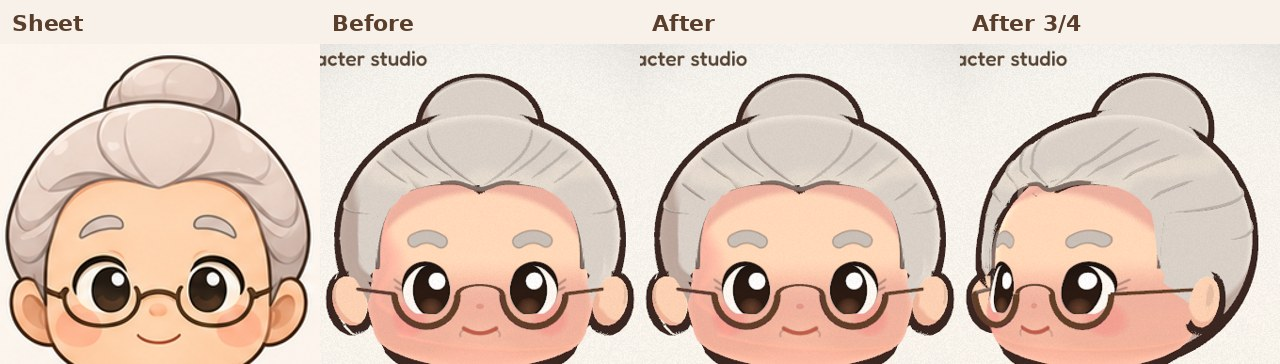
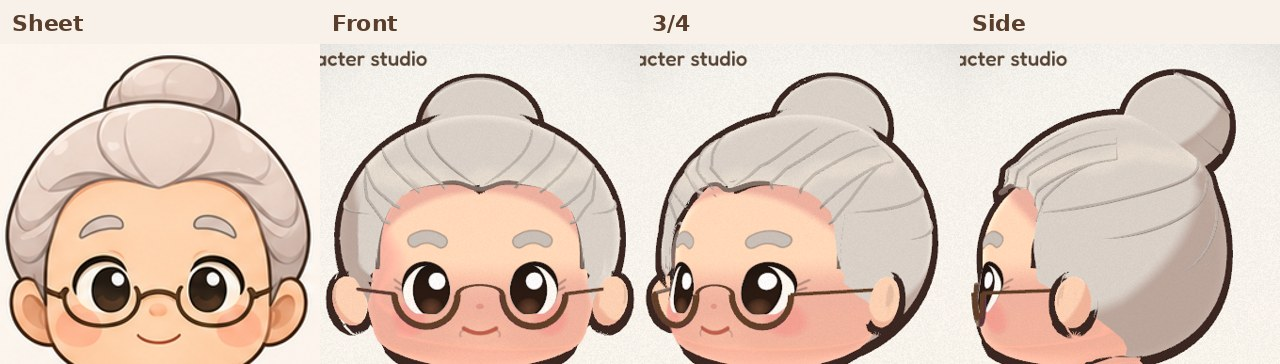
chibi-cast: Fuku front lock lines spaced out down to the ears
Claude-Session: https://claude.ai/code/session_01CNaBwH1Lc1JcuyURjoZdeq

diff --git a/src/art/chibi/ChibiFuku.jsx b/src/art/chibi/ChibiFuku.jsx
@@ -184,11 +184,24 @@ function hairLinesGeo() {
   // curves up the same way (a little larger each time)
   const hlY = (x) => { const top = HL.top - HL.dip * Math.exp(-((x / HL.dipW) ** 2)), cy = (top + HL.bot) / 2, hb = (top - HL.bot) / 2
     return cy + hb * Math.max(0, 1 - Math.abs(x / HL.a) ** HL.p) ** (1 / HL.p) }
-  const NEST = [[0.0175, 1.10], [0.0335, 1.20], [0.0475, 1.30]]
-  const nested = NEST.map(([x0, k]) => PART.map(([x, y]) => [x0 + (x - PART[0][0]) * k, hlY(x0) + 0.0012 + (y - PART[0][1]) * k]))
+  // starting points spaced evenly along the hairline, from the parting down to just above the top of the ear
+  const hl = []; for (let i = 0; i <= 400; i++) { const t = i / 400, x = 0.0532 * Math.sin(t * Math.PI / 2) ** (2 / HL.p) , y = Math.min(hlY(x), 0.0365 + 0.04 * (1 - t))
+    hl.push([x, Math.max(y, -0.004)]) }
+  const len = [0]; for (let i = 1; i < hl.length; i++) len.push(len[i - 1] + Math.hypot(hl[i][0] - hl[i - 1][0], hl[i][1] - hl[i - 1][1]))
+  const atArc = (f) => { const L = f * len[len.length - 1]; let i = len.findIndex(v => v >= L); return hl[Math.max(0, i)] }
+  // [fraction along the hairline, width scale, height scale]: outer lines rise more steeply so they stay on the head
+  const NEST = [[0.25, 1.10, 1.15], [0.50, 1.00, 1.30], [0.75, 0.80, 1.45], [1.00, 0.55, 1.60]]
+  const nested = NEST.map(([f, kx, ky]) => { const [x0, y0] = atArc(f); return PART.map(([x, y]) => [x0 + (x - PART[0][0]) * kx, y0 + 0.0012 + (y - PART[0][1]) * ky]) })
+  // lay a front-view point onto the cap radially (through a sphere round the cap centre), so lines near the sides
+  // wrap round the head instead of falling off its edge
+  const radial = (x, y) => { const dy = y - cc.y, R = 0.08, zz = Math.sqrt(Math.max(R * R - x * x - dy * dy, 1e-6))
+    dir.set(x, dy, zz).normalize(); ray.set(cc.clone().addScaledVector(dir, 0.2), dir.clone().negate()); const h = ray.intersectObject(cap)[0]
+    return h && h.point.distanceTo(cc) > 0.045 ? h.point.addScaledVector(dir, 0.0002) : null }
+  const alongR = (ctrl, d, n = 40) => { const c = new THREE.CatmullRomCurve3(ctrl.map(([x, y]) => new THREE.Vector3(d * x, y, 0)), false, 'centripetal'), pts = []
+    for (let i = 0; i <= n; i++) { const q = c.getPoint(i / n), p = radial(q.x, q.y); if (p) pts.push(p) } return pts }
   for (const d of [-1, 1]) {
     tube(along(PART, d), 0.0008)
-    for (const c of nested) tube(along(c, d), 0.0008)
+    for (const c of nested) tube(alongR(c, d), 0.0008)
     // sides: locks from above the ears sweeping back and up into the bun
     sweep(d * 0.95, 0.18, d * 2.95, BUN_EL - 0.12, 2.0)
     sweep(d * 1.45, -0.02, d * 3.02, BUN_EL - 0.18, 1.8)

diff --git a/docs/characters/chibi-character-design.md b/docs/characters/chibi-character-design.md
@@ -187,6 +187,7 @@ numbers, and changes only what its concept sheet asks for (see section 4). Golde
 
 **Grandma Fuku, pass 34** (KT: more curved lines like that down both sides): [`ref/fuku-front-locks.jpg`](ref/fuku-front-locks.jpg). Three more lines per side of the same traced shape (`NEST`), each starting further along the hairline (x 0.0135 / 0.0255 / 0.0365, on the hairline curve `hlY`) and a little larger (x1.08 / 1.16 / 1.24), so they nest outward down both sides like the sheet's locks. Side and back lines unchanged.
   - More spacing (KT): `NEST` starts at x 0.0175 / 0.0335 / 0.0475, scale x1.10 / 1.20 / 1.30 ([`ref/fuku-front-locks-spaced.jpg`](ref/fuku-front-locks-spaced.jpg)).
+  - Spaced out to the ears (KT): four lines per side, starting evenly along the hairline (arc fractions 0.25 / 0.5 / 0.75 / 1.0) from the parting down to the temple just above the top of the ear; outer lines narrower and taller (width x1.10 / 1.00 / 0.80 / 0.55, height x1.15 / 1.30 / 1.45 / 1.60) so they rise up the side of the head. Laid on the cap radially (`radial`, through a sphere round the cap centre) so the side lines wrap round the head instead of falling off its edge.
 
 These images are documentation only. They are not imported by the game and are not part of the app bundle or the GitHub Pages build.
 
